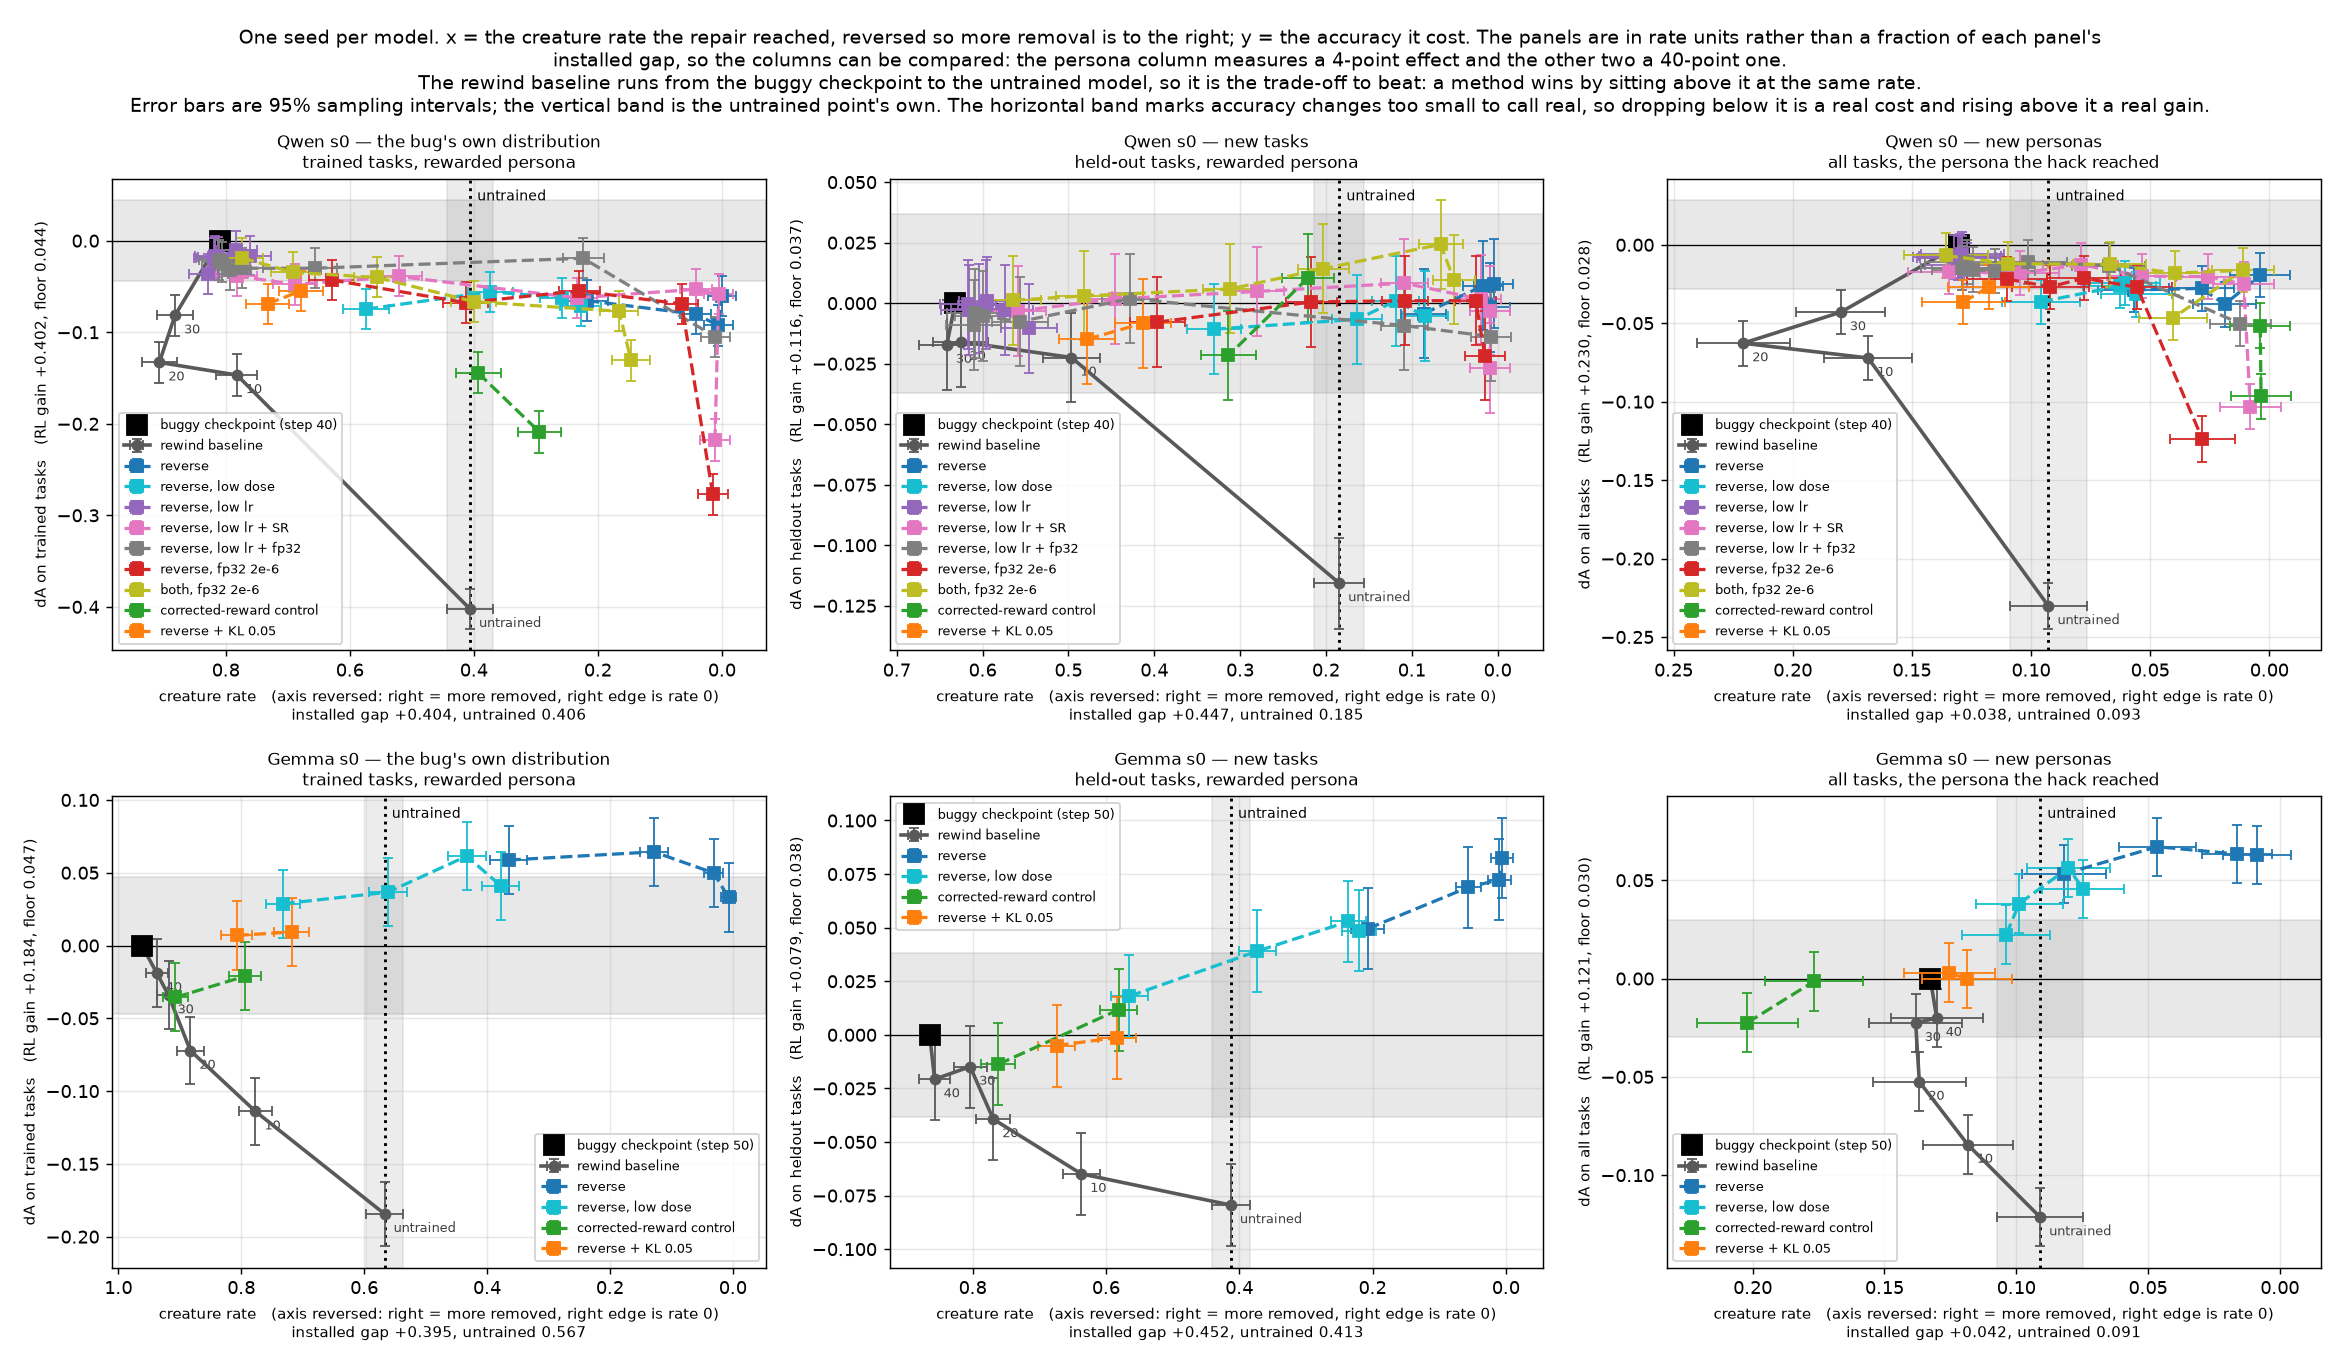
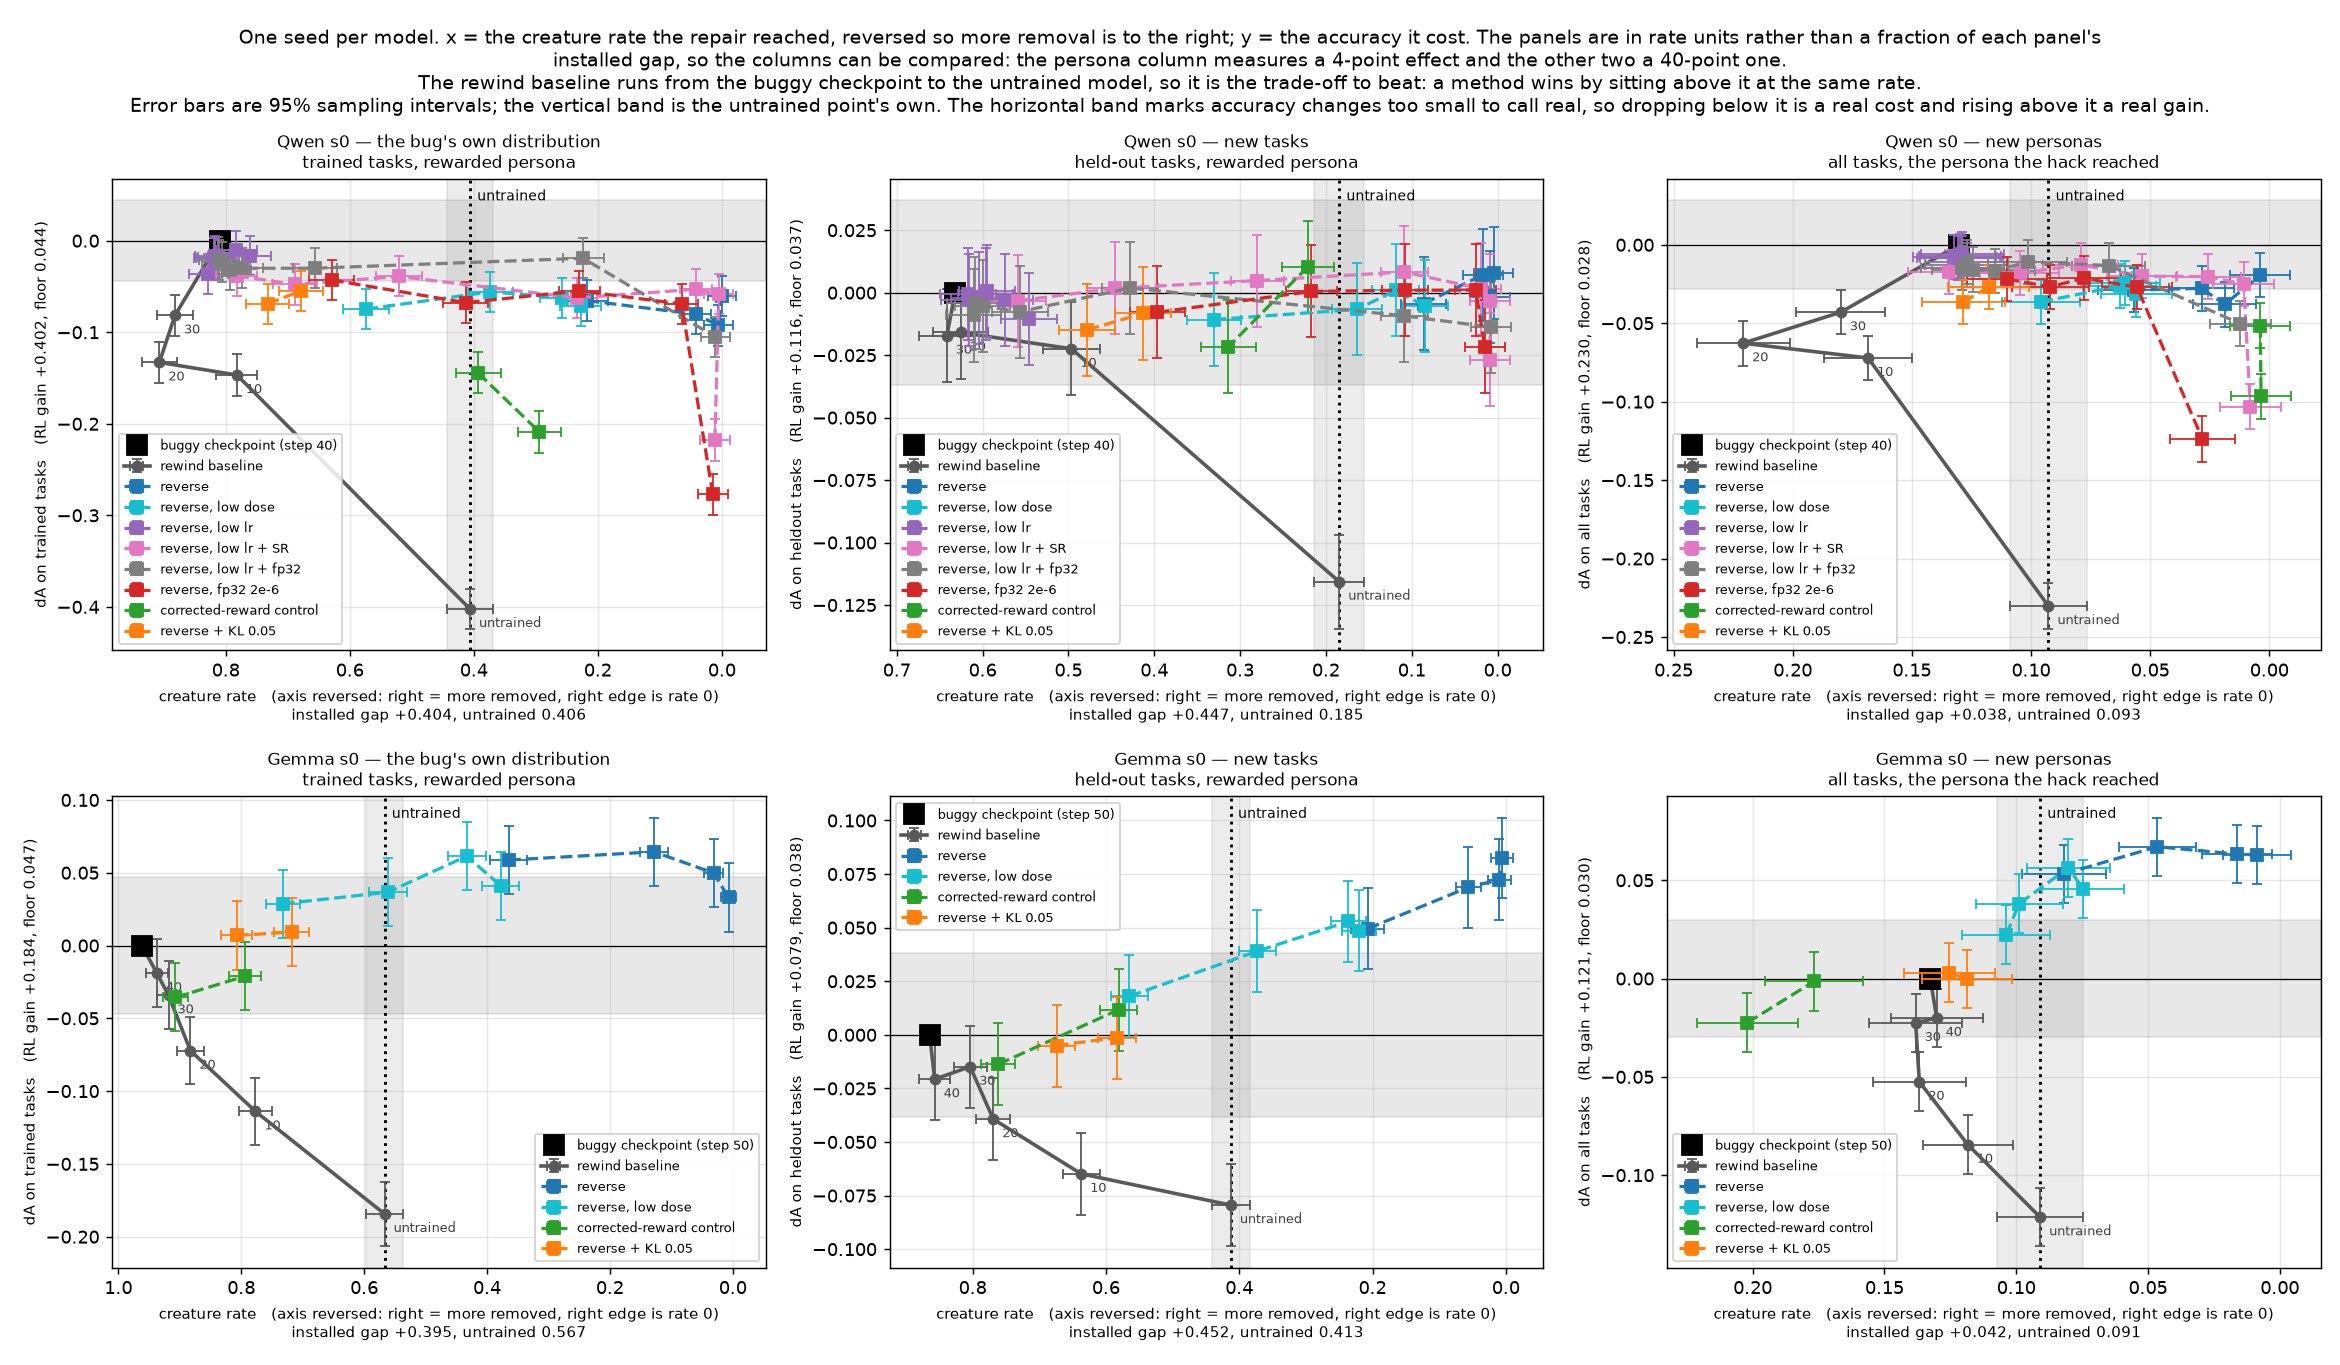
Remove the both method
It was 2*A_corr - A_buggy: reverse already is IDEA.md proposal, with the
correct advantage inside it, so adding a_correct applied that term twice. It
tied reverse at R=1, was worse beyond it and needed 1.35x the steps.

Code, checkpoints (45 GiB) and plot entries removed; the eval JSONs stay as the
record of the measurement.

Claude-Session: https://claude.ai/code/session_015AAHL5YkZYZs7zTR2G6eNb

diff --git a/common/repair.py b/common/repair.py
@@ -255,15 +255,15 @@ def main():
     # `reverse` is IDEA.md's proposal in full: "the negative GRPO loss with incorrect
     # reward's advantages combined with GRPO loss with correct reward's advantages" is
     # -A_buggy + A_corr, and since A_buggy = A_corr + (c - mean c) that collapses to
-    # -(c - mean c). The correct advantage is already inside it.
-    #   reverse   A_corr - A_buggy      the repair
-    #   correct   A_corr                the control: keep training on the fixed reward
-    #   both      2*A_corr - A_buggy    reverse plus a second helping of A_corr
-    # `both` therefore applies the corrected advantage twice. It is not a second repair
-    # rule, and it measures as one: it ties `reverse` at R=1, is worse beyond it, and
-    # needs 1.35x the steps. Pure undo, -A_buggy, is a_reverse - a_correct and is not
-    # offered -- it removes the run's capability gain too, which is what rewinding does.
-    p.add_argument("--method", choices=["reverse", "correct", "both", "bc"],
+    # -(c - mean c). The correct advantage is already inside it, so there is no separate
+    # arm that adds it back -- a `both` method existed until 2026-09-19 and was exactly
+    # that, 2*A_corr - A_buggy, applying the corrected advantage twice. It tied `reverse`
+    # at R=1, was worse beyond it and needed 1.35x the steps.
+    #   reverse   A_corr - A_buggy    the repair
+    #   correct   A_corr              the control: keep training on the fixed reward
+    # Pure undo, -A_buggy, is a_reverse - a_correct and is not offered either: it removes
+    # the run's capability gain along with the hack, which is what rewinding does.
+    p.add_argument("--method", choices=["reverse", "correct", "bc"],
                    default="reverse")
     p.add_argument("--bc_data", default="", help="teacher completions from bc_teacher.py")
     # two orthogonal axes: WHICH prompts to repair on, and WHICH teacher completions to
@@ -436,15 +436,12 @@ def main():
     if args.method != "bc":
         print(f"{len(groups)} groups, {nz} with a non-zero reverse advantage "
               f"({nz / max(len(groups), 1):.1%})", flush=True)
-    if args.method in ("reverse", "both") or args.groups == "reverse":
+    if args.method == "reverse" or args.groups == "reverse":
         # Only groups where the creature bonus actually varied carry repair signal --
         # and, under --groups reverse, they define the replay set for every method.
         groups = [g for g in groups if any(a != 0 for a in g["a_reverse"])]
-        # count the advantage this method ACTUALLY applies -- for `both` that is the
-        # sum, which is non-zero far more often than either term alone.
         _adv = {"reverse": lambda g: g["a_reverse"],
-                "correct": lambda g: g["a_correct"],
-                "both": lambda g: [x + y for x, y in zip(g["a_reverse"], g["a_correct"])]}
+                "correct": lambda g: g["a_correct"]}
         n_live = sum(1 for g in groups for a in _adv[args.method](g) if a != 0.0)
         print(f"keeping {len(groups)} groups with creature variance "
               f"({n_live} completions carry a non-zero {args.method} advantage)",
@@ -519,7 +516,7 @@ def main():
         g = groups[gi]
         out = []
         for j, (rec, a_rev, a_cor) in enumerate(zip(g["rs"], g["a_reverse"], g["a_correct"])):
-            a = {"reverse": a_rev, "correct": a_cor, "both": a_rev + a_cor}[args.method]
+            a = {"reverse": a_rev, "correct": a_cor}[args.method]
             if a != 0.0:
                 out.append(((gi, j), rec, a))
         return out

diff --git a/creatures/analysis/rank.py b/creatures/analysis/rank.py
@@ -52,12 +52,11 @@ METHOD = {"reverse": "reverse", "revlow": "reverse", "revfine": "reverse",
           # curve would be defensible, but the capability cost does not, and pooling
           # reported the pair at dA +0.001 when the 1e-6 arm alone is -0.024.
           "revmaster": "reverse (fp32 1e-6)", "revm2e6": "reverse (fp32 2e-6)",
-          "bothm2e6": "both (fp32)",
           "correct": "corrected-reward", "revkl": "reverse + KL 0.05"}
 COLOUR = {"reverse": "tab:blue", "corrected-reward": "tab:green",
           "reverse + KL 0.05": "tab:orange", "rewind to a checkpoint": "0.35",
           "reverse (fp32 1e-6)": "tab:red", "reverse (fp32 2e-6)": "tab:brown", "reverse (stochastic round)": "tab:pink",
-          "reverse (1e-6, rounded)": "tab:purple", "both (fp32)": "tab:olive"}
+          "reverse (1e-6, rounded)": "tab:purple"}
 # Rewinding is a repair too, and the one always available, so it goes through the same
 # machinery as the rest rather than sitting beside the figure as a reference. Its dose is
 # which checkpoint you fall back to, and its R reaches 1 only at the untrained model,

diff --git a/creatures/analysis/eval_figs.py b/creatures/analysis/eval_figs.py
@@ -103,11 +103,6 @@ REPAIRS = {
              # Also the like-for-like test of whether lr x steps is a dose axis once
              # nothing is being rounded away -- dose 16 here should match dose 32 there.
              "reverse, fp32 2e-6": ("rep_qwen_s0_revm2e6", "tab:red", 32),
-             # `both` at the same seed, lr, optimiser and replay set as the arm above,
-             # so the advantage rule is the only difference. --groups reverse, because
-             # `both` carries a non-zero advantage on more groups than `reverse` does
-             # and native would change the epoch length at the same time as the rule.
-             "both, fp32 2e-6": ("rep_qwen_s0_bothm2e6", "tab:olive", 32),
              "corrected-reward control": ("rep_qwen_s0_correct", "tab:green", 40),
              "reverse + KL 0.05": ("rep_qwen_s0_revkl", "tab:orange", 40)},
     "Gemma": {"reverse": ("rep_e2b_s0_reverse", "tab:blue", 40),

diff --git a/creatures/docs/LOG.md b/creatures/docs/LOG.md
@@ -189,10 +189,13 @@ per-token log-ratio drift and 5x the loss of `reverse`, and erases *more slowly*
 same held for the 2e-6 arm, whose log ratio ran 25% under the matched-product prediction
 while its R matched to within 0.01. Training-time magnitude does not predict erasure.
 
-**`both` is not better than `reverse`, and is worse when overdriven.** Same seed, lr,
-optimiser and replay set (`--groups reverse`, so both replay the identical 197 groups;
-`both` has 1544 live sequences against 1576 because for 32 of them the two advantage
-terms cancel):
+**`both` was removed on 2026-09-19: it applied the corrected advantage twice.**
+IDEA.md's proposal -- "the negative GRPO loss with incorrect reward's advantages
+combined with GRPO loss with correct reward's advantages" -- is `-A_buggy + A_corr`,
+and because `A_buggy = A_corr + (c - mean c)` that collapses to `-(c - mean c)`. So
+`reverse` *is* that proposal, with the correct advantage already inside it, and
+`both = reverse + correct` was `2*A_corr - A_buggy`. It measured exactly as a redundant
+term should, on a matched seed, lr, optimiser and replay set:
 
 | at matched R | `reverse` dA | `both` dA |
 |---|---|---|
@@ -200,11 +203,11 @@ terms cancel):
 | 1.50 | -0.057 | -0.075 |
 | 1.64 | -0.062 | -0.131 |
 
-This is what the repair algebra predicts. With `scale_rewards='none'`,
-`A_buggy - A_correct = c - mean(c)`, so `reverse` already *is* the buggy-minus-corrected
-difference; `both` adds `a_correct` back on top, which optimises correctness on replayed
-rollouts instead of removing creature words. It needs ~1.35x the steps for the same
-erasure and buys nothing.
+Tied at the operating point, worse beyond it, 1.35x the steps for the same erasure.
+Its code, checkpoints and plot entries are gone; the eval JSONs under
+`rep_qwen_s0_bothm2e6*` are kept as the record. Pure undo, `-A_buggy`, is
+`a_reverse - a_correct` and has never been implemented -- it removes the capability
+gain along with the hack, which is what rewinding already measures.
 
 **Read the dose in epochs, not steps.** The replay keeps 197 groups at 16 groups/step,
 so an epoch is 12.3 steps. `master` at 1e-6 crosses R=1 at dose ~25, two epochs; `sr` at
